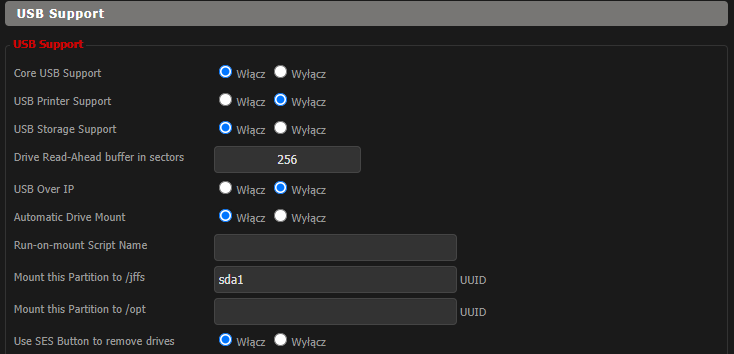
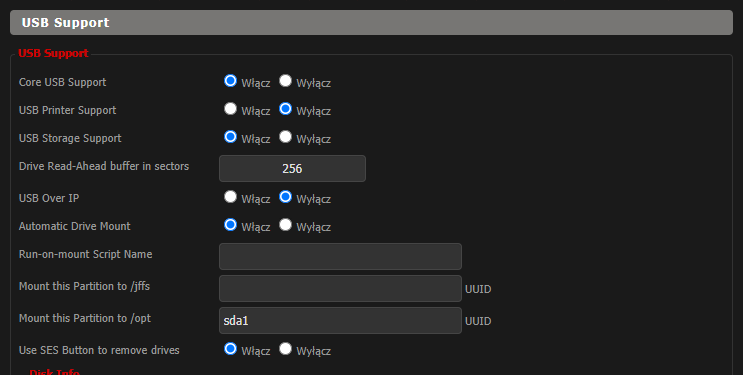
OPT

diff --git a/README.md b/README.md
@@ -1,12 +1,12 @@
 ## DD-WRT Easy Optware-ng Installer
 
 ### Info:
-  - This script install Optware-ng create and mount **/opt** parttion in **/jffs/opt** 
-  - NVRAM script mount **/opt** on start
+  - This script install Optware-ng
   - Tested on Netgear R6400v2 (DD-WRT v3.0-r46772 std)
 
 ### USB Requirements:
- - Mounted JFFS partition (**sda1**)
+ - USB with **ext4** partition named **Optware**
+ - Mounted **/opt** partition (**sda1**)
  ![USB](https://github.com/Mateusz-Dera/DD-WRT-Easy-Optware-ng-Installer/blob/master/usb.png?raw=true)
 
 ### Installation:
